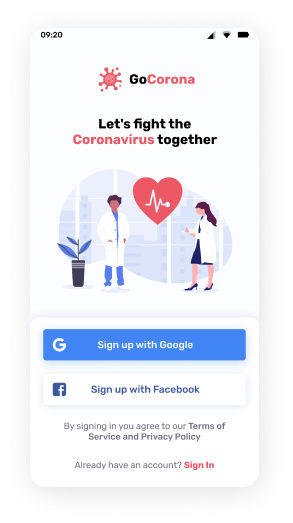
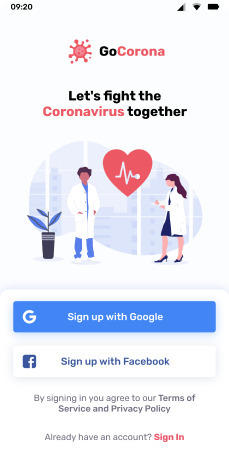
new stay-safe

diff --git a/css/style.css b/css/style.css
@@ -582,7 +582,19 @@ body {
 }
 
 .stay-safe {
-  padding: 75px 0px;
+  padding: 80px 0px;
+}
+
+@media (max-width: 991.98px) {
+  .stay-safe {
+    padding: 40px 0px;
+  }
+}
+
+@media (max-width: 767.98px) {
+  .stay-safe {
+    padding: 30px 0px;
+  }
 }
 
 .stay-safe__conteiner {
@@ -594,17 +606,102 @@ body {
           align-items: center;
 }
 
+@media (max-width: 767.98px) {
+  .stay-safe__conteiner {
+    -webkit-box-orient: vertical;
+    -webkit-box-direction: reverse;
+        -ms-flex-direction: column-reverse;
+            flex-direction: column-reverse;
+  }
+}
+
 .stay-safe__media {
   -webkit-box-flex: 0;
       -ms-flex: 0 1 50%;
           flex: 0 1 50%;
-  text-align: center;
+}
+
+@media (min-width: 991.98px) {
+  .stay-safe__media {
+    padding: 0px 0px 0px 47px;
+  }
 }
 
 .stay-safe__content {
   -webkit-box-flex: 0;
       -ms-flex: 0 1 50%;
           flex: 0 1 50%;
+}
+
+@media (max-width: 767.98px) {
+  .stay-safe__content {
+    margin: 0px 0px 30px 0px;
+  }
+}
+
+.media-stay-safe {
+  width: 370px;
+  text-align: center;
+  padding: 56px 0px 27px 0px;
+  position: relative;
+}
+
+@media (max-width: 479.98px) {
+  .media-stay-safe {
+    width: 290px;
+  }
+}
+
+.media-stay-safe__image {
+  display: inline-block;
+  -webkit-box-shadow: 2px 4px 32px rgba(0, 0, 0, 0.12);
+          box-shadow: 2px 4px 32px rgba(0, 0, 0, 0.12);
+  border-radius: 16px;
+  position: relative;
+  width: 61.8%;
+}
+
+.media-stay-safe__image img {
+  position: relative;
+  z-index: 5;
+  max-width: 100%;
+}
+
+.media-stay-safe__image::after {
+  content: "";
+  position: absolute;
+  z-index: 2;
+  bottom: -12px;
+  left: 12px;
+  width: 206px;
+  height: 27px;
+  background: rgba(240, 240, 240, 0.49);
+  border-radius: 16px;
+}
+
+.media-stay-safe__item {
+  position: absolute;
+  background: #EC5863;
+  border-radius: 30px;
+  width: 77px;
+  height: 77px;
+}
+
+.media-stay-safe__item1 {
+  top: 0;
+  left: 0;
+  width: 147px;
+  height: 147px;
+}
+
+.media-stay-safe__item2 {
+  bottom: 0px;
+  left: 33px;
+}
+
+.media-stay-safe__item3 {
+  bottom: 107px;
+  right: 30px;
 }
 
 .footer {

diff --git a/source/scss/style.scss b/source/scss/style.scss
@@ -418,36 +418,103 @@ body {
 }
 // ====== STAY-SAFE ========================================================================================================================================================================================================================
 .stay-safe {
-	padding: 75px 0px;
+	padding: 80px 0px;
+	@media (max-width: 991.98px) {
+		padding: 40px 0px;
+	}
+	@media (max-width: 767.98px) {
+		padding: 30px 0px;
+	}
 
 	&__conteiner {
 		display: flex;
 		align-items: center;
-
+		// ------ for MOBILE ------
+		@media (max-width: 767.98px) {
+			flex-direction: column-reverse;
+		}
 	}
 
 	&__media {
 		flex: 0 1 50%;
-		text-align: center;
+		// ------ for TABLET ------
+		@media (min-width: 991.98px) {
+			padding: 0px 0px 0px 47px;
+		}
 	}
 
 	&__content {
 		flex: 0 1 50%;
-
+		// ------ for MOBILE ------
+		@media (max-width: 767.98px) {
+			margin: 0px 0px 30px 0px;
+		}
 	}
 
 	&__blok-text {
 	}
 }
-
-.media {
-
-	&__stay-safe {
+.media-stay-safe {
+	width: 370px;
+	text-align: center;
+	padding: 56px 0px 27px 0px;
+	position: relative;
+	// ------ for MOBILE SMALL ------
+	@media (max-width: 479.98px) {
+		width: 290px;
 	}
 
-	&__stay-safe-image {
+
+	&__image {
+		display: inline-block;
+		box-shadow: 2px 4px 32px rgba(0, 0, 0, 0.12);
+		border-radius: 16px;
+		position: relative;
+		width: 61.8%;
+		img {
+			position: relative;
+			z-index: 5;
+			max-width: 100%;
+		}
+		&::after {
+			content: "";
+			position: absolute;
+			z-index: 2;
+			bottom: -12px;
+			left: 12px;
+			width: 206px;
+			height: 27px;
+			background: rgba(240, 240, 240, 0.49);
+			border-radius: 16px;
+		}
+
+	}
+	&__item {
+		position: absolute;
+		background: #EC5863;
+		border-radius: 30px;
+		width: 77px;
+		height: 77px;
+	}
+
+	&__item1 {
+		top: 0;
+		left: 0;
+		width: 147px;
+		height: 147px;
+	}
+
+	&__item2 {
+		bottom: 0px;
+		left: 33px;
+	}
+
+	&__item3 {
+		bottom: 107px;
+		right: 30px;
 	}
 }
+
 
 
 

diff --git a/index.html b/index.html
@@ -85,20 +85,22 @@
 			<!-- STAY-SAFE -->
 			<section class="stay-safe">
 				<div class="stay-safe__conteiner">
-					<div class="stay-safe__media media__stay-safe">
-						<div class="media__stay-safe-image">
-							<img src="img/stay-safe_/app.png" alt="Приложение">
+					<div class="stay-safe__media">
+						<div class="media-stay-safe">
+							<div class="media-stay-safe__image">
+								<img src="img/stay-safe_/app.png" alt="Приложение">
+							</div>
+							<div class="media-stay-safe__item media-stay-safe__item1"></div>
+							<div class="media-stay-safe__item media-stay-safe__item2"></div>
+							<div class="media-stay-safe__item media-stay-safe__item3"></div>
 						</div>
 					</div>
 					<div class="stay-safe__content">
-						<div class="stay-safe__blok-text">
-							<h2 class="blok-text__tittle">
-								Stay safe with Go<span>Corona.</span>
-							</h2>
+						<div class="stay-safe__blok-text blok-text">
+							<h2 class="blok-text__tittle">Stay safe with Go<span>Corona.</span></h2>
 							<div class="blok-text__text">
-								24x7 Support and user friendly mobile platform to bring healthcare to your
-								fingertips.
-								Signup and be a part of the new health culture.
+								24x7 Support and user friendly mobile platform to bring
+								healthcare to your fingertips. Signup and be a part of the new health culture.
 							</div>
 							<a href="" class="blok-text__button button">Features</a>
 						</div>
